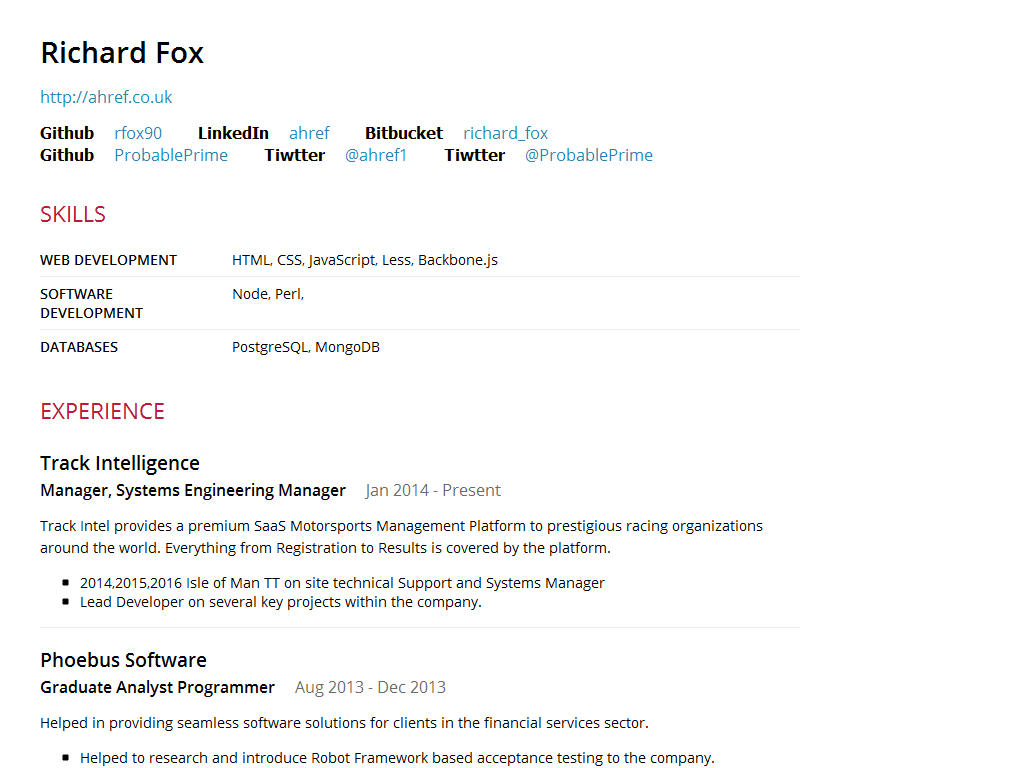
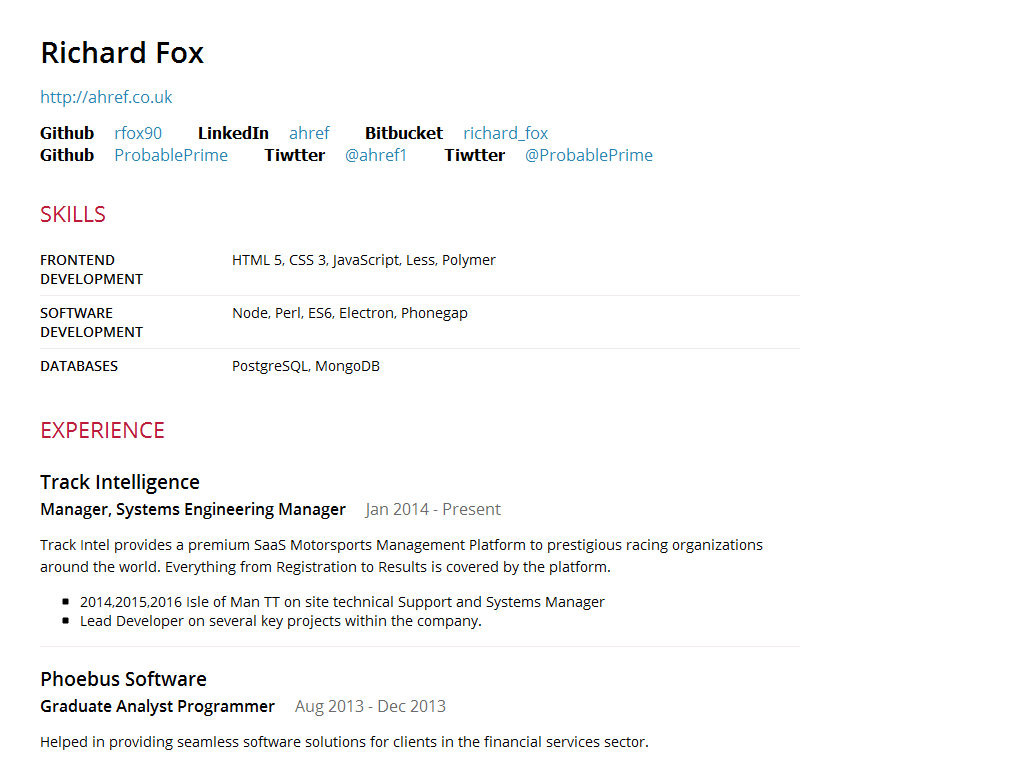
Adjust skills

diff --git a/out/resume.html b/out/resume.html
@@ -222,12 +222,12 @@
                 	<h2>Skills</h2>
 
                 <div class="item">
-                    <div class="name">Web Development</div>
-                    <div class="keywords">HTML, CSS, JavaScript, Less, Backbone.js</div>
+                    <div class="name">Frontend Development</div>
+                    <div class="keywords">HTML 5, CSS 3, JavaScript, Less, Polymer</div>
                 </div>
                 <div class="item">
                     <div class="name">Software Development</div>
-                    <div class="keywords">Node, Perl,</div>
+                    <div class="keywords">Node, Perl, ES6, Electron, Phonegap</div>
                 </div>
                 <div class="item">
                     <div class="name">Databases</div>

diff --git a/out/resume.pdf.html b/out/resume.pdf.html
@@ -233,14 +233,14 @@ section h2 {
 		<h2>Skills</h2>
 		<div class="item">
 			<div class="name">
-				Web Development
+				Frontend Development
 			</div>
 			<div class="keywords">
-					HTML,
-					CSS,
+					HTML 5,
+					CSS 3,
 					JavaScript,
 					Less,
-					Backbone.js
+					Polymer
 			</div>
 		</div>
 		<div class="item">
@@ -250,7 +250,9 @@ section h2 {
 			<div class="keywords">
 					Node,
 					Perl,
-					
+					ES6,
+					Electron,
+					Phonegap
 			</div>
 		</div>
 		<div class="item">
